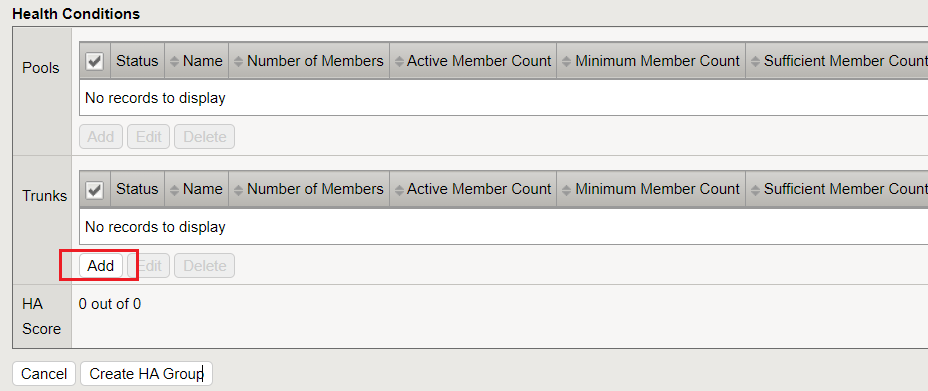
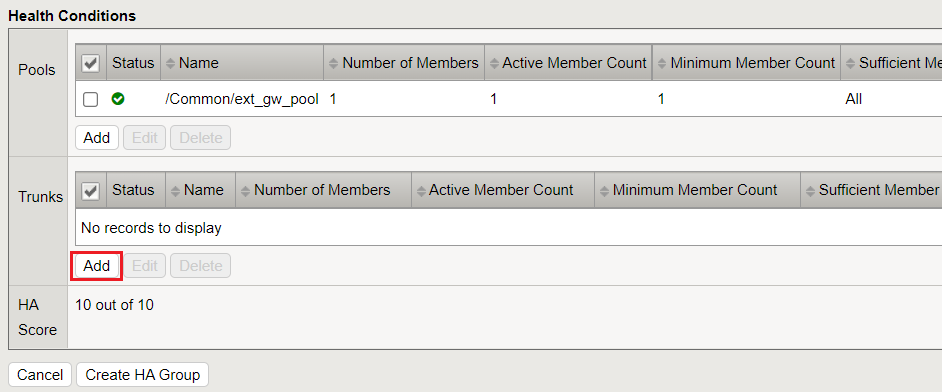
cwt-lab5-updates
lab5-updates

Changed region(s): [[0.0, 0.0, 1.0, 0.89], [0.0, 0.9207, 0.25, 0.9821]]

diff --git a/docs/class6/Module1/Lab5.rst b/docs/class6/Module1/Lab5.rst
@@ -49,39 +49,32 @@ NOTES:
 .. _section-20:
 
 
--
+-  Next, we will add our External Gateway Pool we created earlier to the Pools HA Group Configuration:
+    -  Click the "Add" button
+       -  .. image:: ../images/image131.png
+    -  In the Pool drop-down, select "ext_gw_pool," and click the "Add" button:
+       -  .. image:: ../images/image132.png
+
 
 -  Next, we will add our Trunk links to our HA Group Configuration:
-
-   -  .. image:: ../images/image65.png
-
-..
-
+    -  Under the Trunks section, click the "Add" button:
+       -  .. image:: ../images/image65.png
    
 
--  Add the External Trunk object, and click the "Add" button; repeat
-   this step for the Internal Trunk object:
-
-   -  .. image:: ../images/image66.png
+   -  From the drop-down, select the the External Trunk object (ext_trunk), and click the "Add" button:
+       -  .. image:: ../images/image133.png
+   -  Repeat this step for the Internal Trunk object (int_trunk):
+       -  .. image:: ../images/image134.png
 
 .. _section-21:
 
 
--
 
--  Verify that your HA Group Trunk configuration reflects the following:
+-  Verify that your HA Group Trunk configuration reflects the following, and Click the "Create HA Group" button:
 
-   -  .. image:: ../images/image67.png
-
-.. _section-22:
+    -  .. image:: ../images/image67.png
 
 
--
-
--  Verify your HA Group Configuration; once complete, click the "Create
-   HA Group" button:
-
-   -  .. image:: ../images/image68.png
 
 .. _section-23:
 
